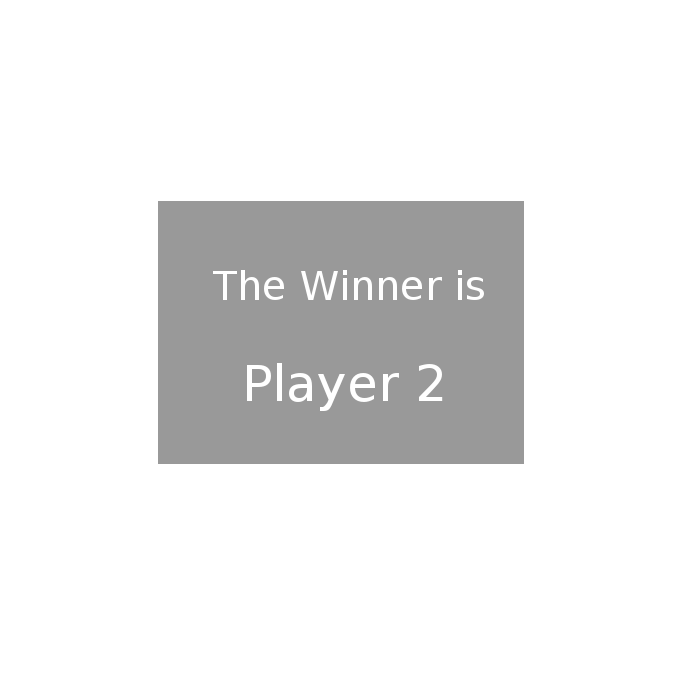
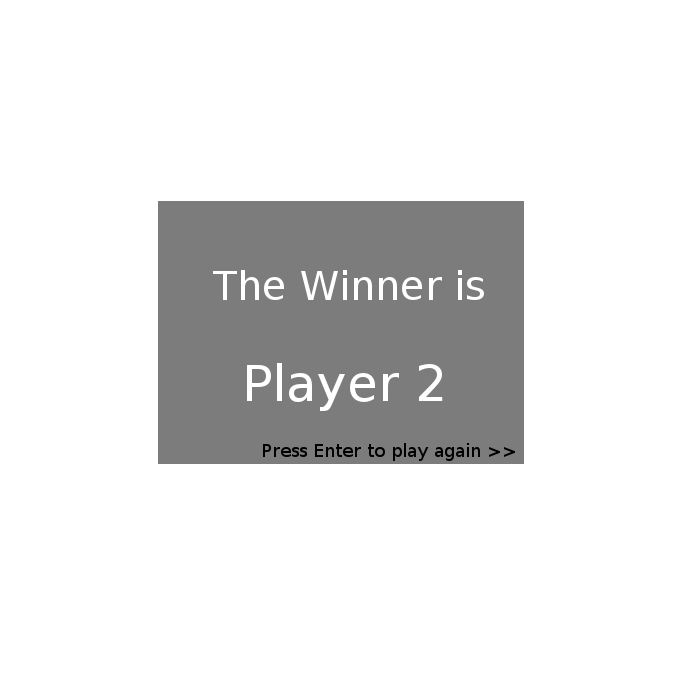
press enter to play again

Changed region(s): [[0.21, 0.27, 0.75, 0.66]]

diff --git a/core/src/com/blowrunning/game/GameScreen.java b/core/src/com/blowrunning/game/GameScreen.java
@@ -30,10 +30,7 @@ public class GameScreen extends ScreenAdapter {
     bg = new Texture("bg.png");
     sprite = new Sprite(bg);
     sprite.setOriginCenter();
-    startSound = Gdx.audio.newSound(Gdx.files.internal("start.wav"));
-    startSound.play();
-    themeSound = Gdx.audio.newSound(Gdx.files.internal("sound.mp3"));
-    themeSound.loop();
+    reset();
   }
 
   @Override
@@ -73,14 +70,29 @@ public class GameScreen extends ScreenAdapter {
     
     if (!fin && (world.checkFinish(1) || world.checkFinish(2))) {
       themeSound.stop();
-      endSound = Gdx.audio.newSound(Gdx.files.internal("End.mp3"));
       endSound.play();
       fin = true;
+    }
+    
+    if (Gdx.input.isKeyPressed(Input.Keys.ENTER) && fin) {
+      endSound.stop();
+      reset();
     }
   }
   
   public static World getWorld() {
     return world;
+  }
+  
+  public void reset(){
+    runner1.reset();
+    runner2.reset();
+    endSound = Gdx.audio.newSound(Gdx.files.internal("End.mp3"));
+    startSound = Gdx.audio.newSound(Gdx.files.internal("start.wav"));
+    startSound.play();
+    themeSound = Gdx.audio.newSound(Gdx.files.internal("sound.mp3"));
+    themeSound.loop();
+    fin = false;
   }
 }
 

diff --git a/core/src/com/blowrunning/game/Runner.java b/core/src/com/blowrunning/game/Runner.java
@@ -191,4 +191,15 @@ public class Runner implements Entity {
   public boolean checkFinished(){
     return finish;
   }
+  
+  public void reset() {
+    count = 0;
+    isSlow = false;
+    position.x = STARTPX;
+    type = 0;
+    countGb = 0;
+    usingItem = false;
+    globalItem = false;
+    finish = false;
+  }
 }
